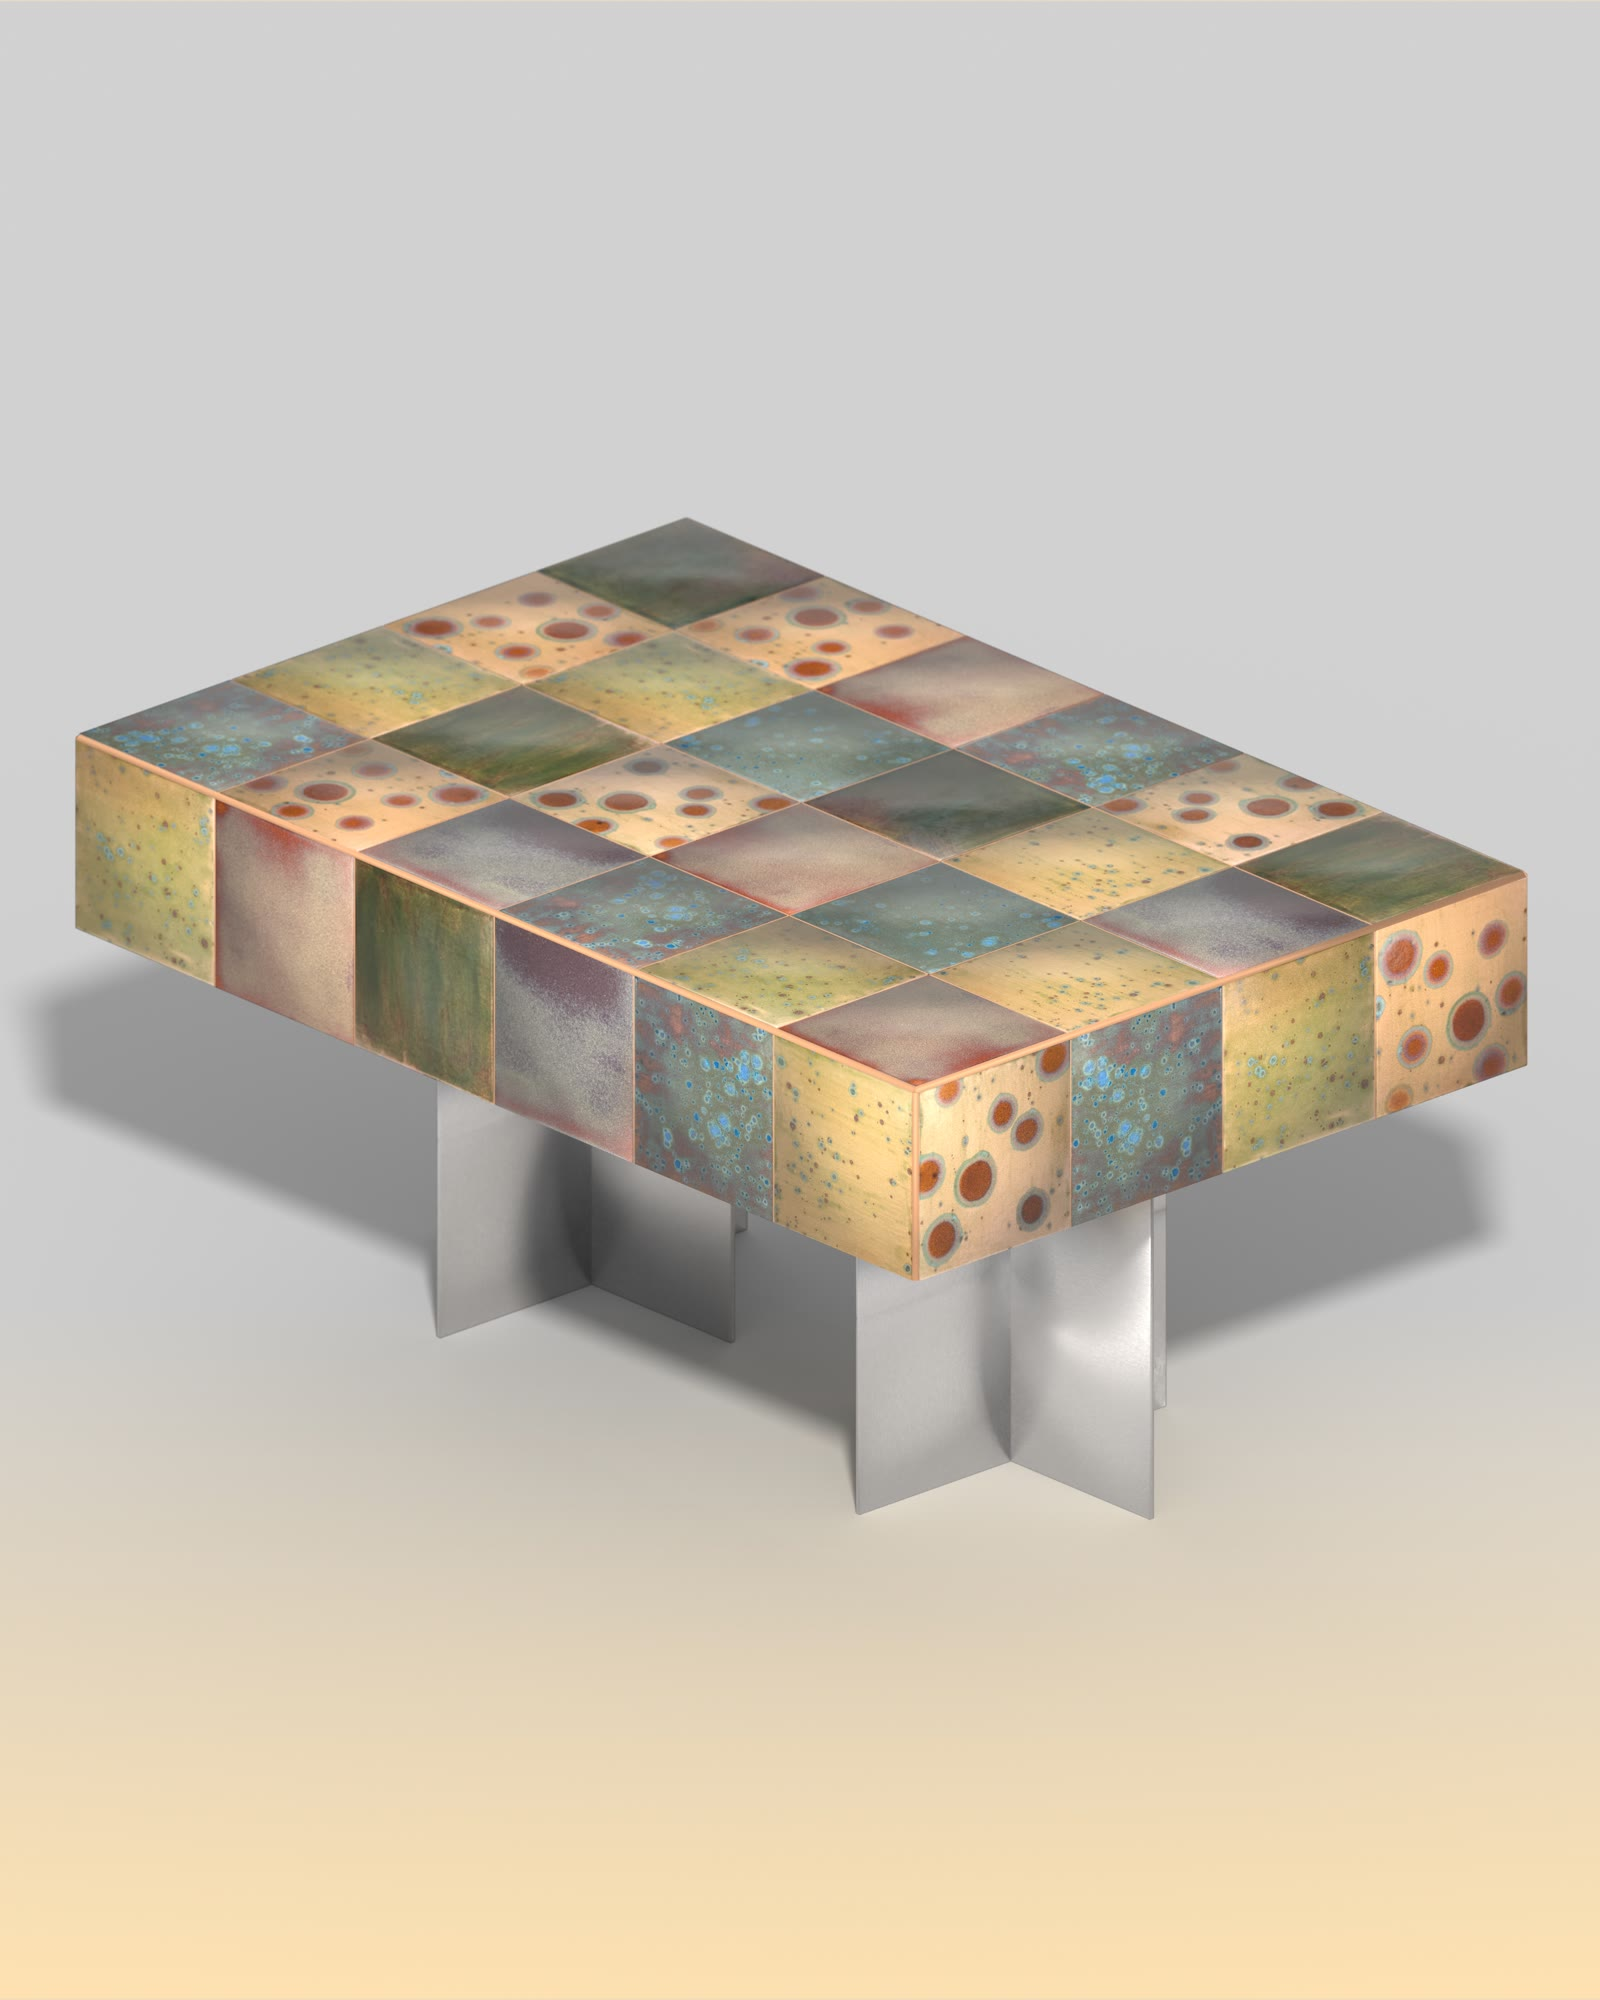
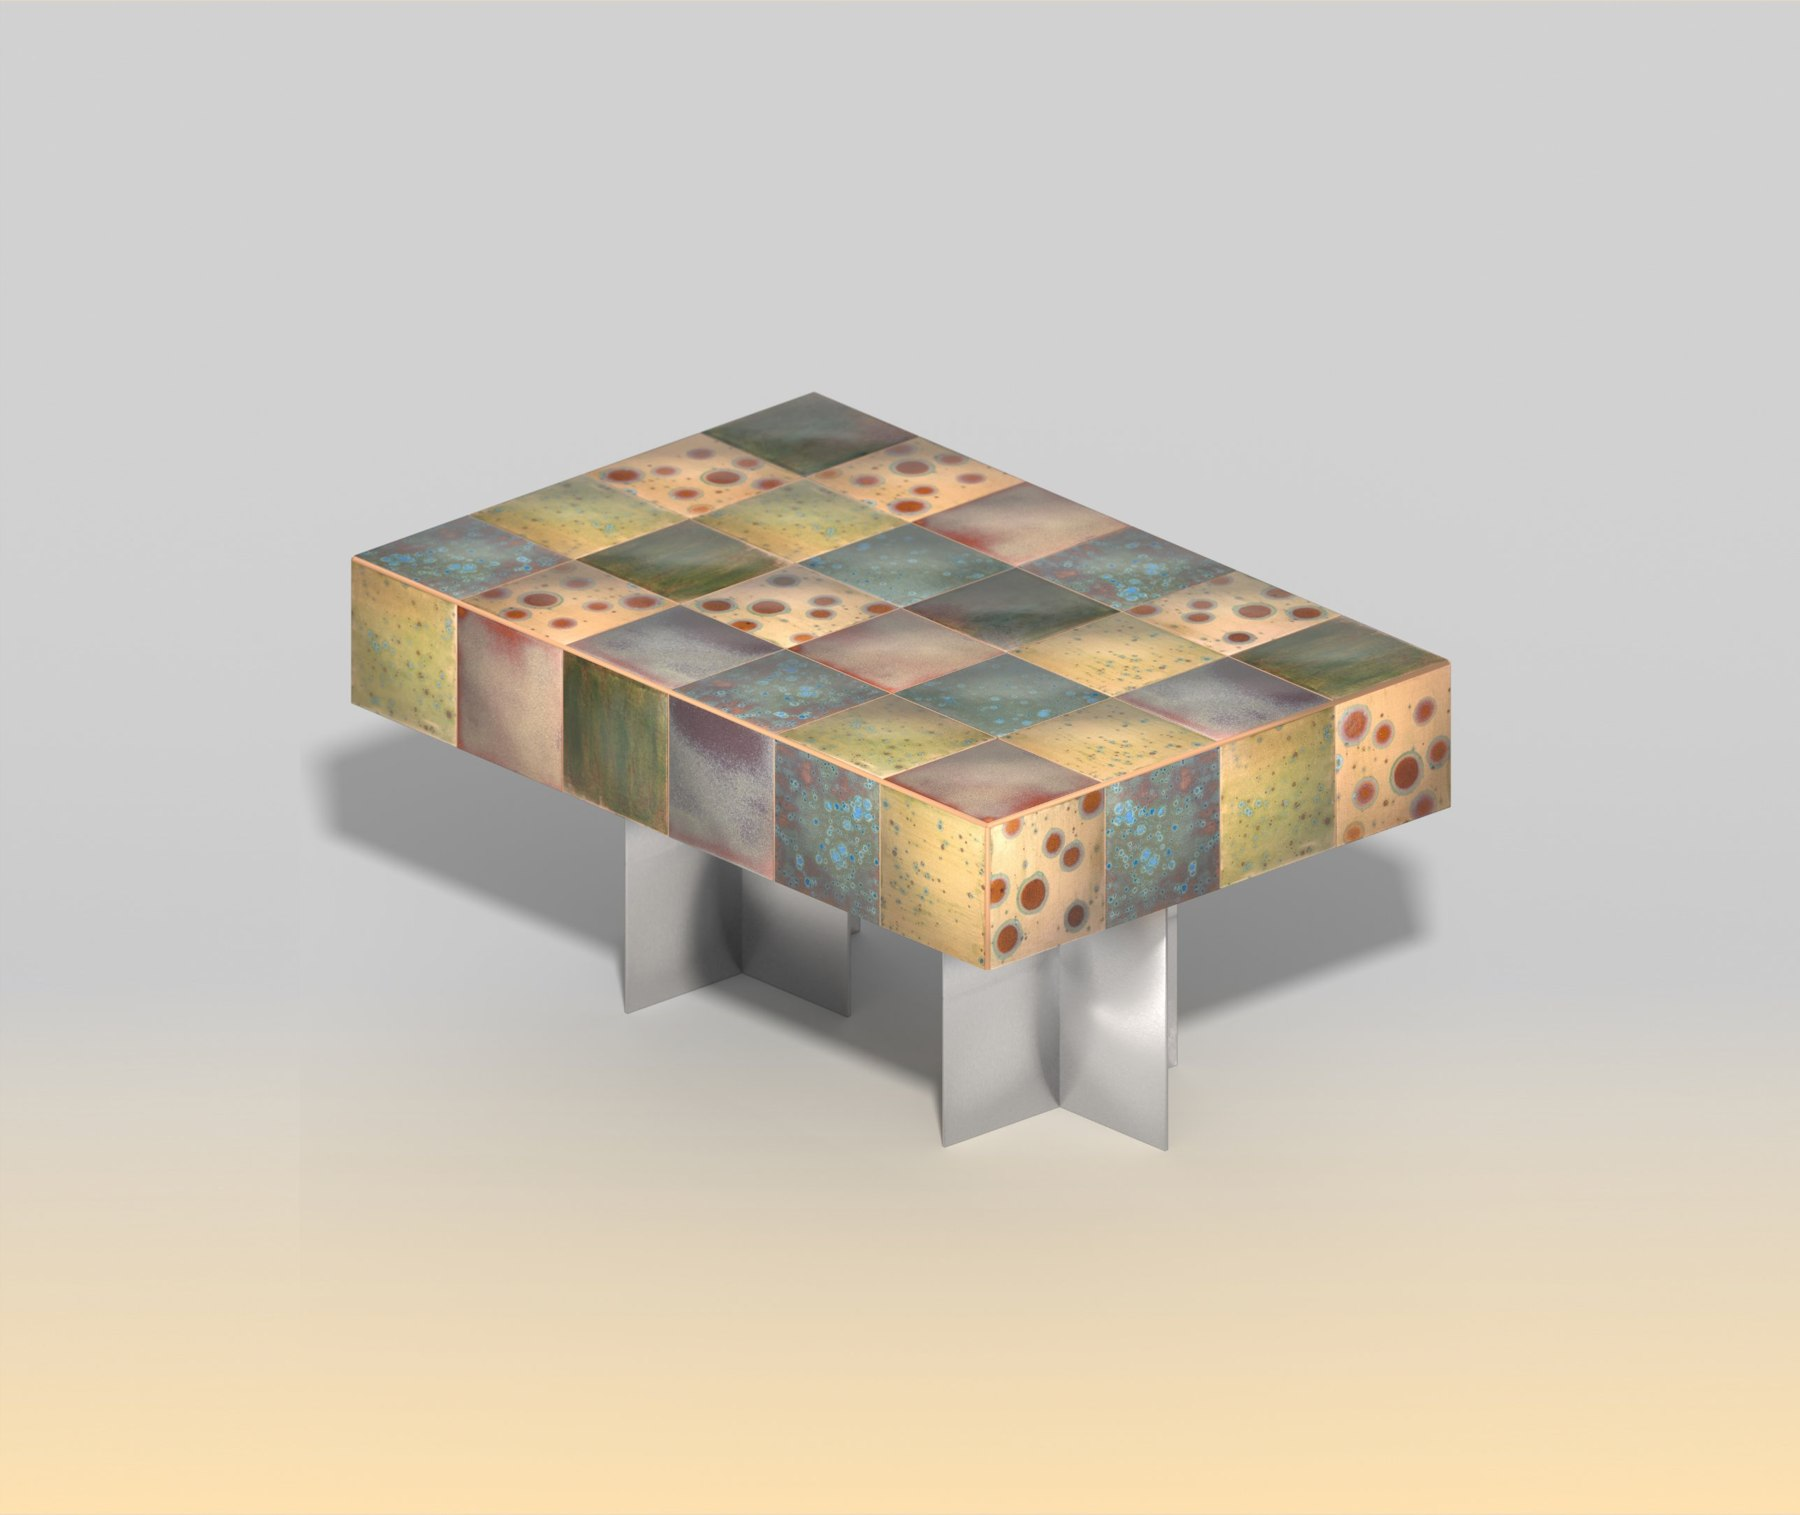
Table : nouvelles images, inox brossé visible, titre après préloader, reprise caméra douce
- Remplace cover.jpg, dessus.jpg et tranche-detail.jpg par les nouveaux
  rendus fournis (cache-bust ?v=2).
- Inox des pieds : la texture sert aussi de carte de rugosité -> les stries
  du brossage deviennent nettement visibles (plus de simple miroir).
- Titre de bannière : son animation d'arrivée est différée jusqu'à la fin du
  préloader, pour qu'elle démarre quand le voile se lève et non derrière lui
  (toutes les pages projet, main.js v=70).
- Reprise de la caméra 3D plus douce : retour au cadrage plus lent et montée
  progressive de la vitesse de rotation automatique (repart de 0).

Claude-Session: https://claude.ai/code/session_01H5iVRNpBVL8bQ4YUxpHi1P

Changed region(s): [[0.0, 0.2482, 0.9688, 0.7756]]

diff --git a/assets/js/table3d.js b/assets/js/table3d.js
@@ -18,6 +18,7 @@ import { RoomEnvironment } from 'three/addons/environments/RoomEnvironment.js';
 
   var inited = false, running = false, renderer, scene, camera, controls, raf = null;
   var sun = null, t0 = 0;
+  var AUTO_SPEED = 0.9; // vitesse de croisiere de la rotation automatique
   // Cadrage par defaut, pour la reprise automatique apres interaction
   var homePos = new THREE.Vector3(), homeTarget = new THREE.Vector3();
   var idleTimer = null, resetting = false, resetFrom = new THREE.Vector3(), resetFromT = new THREE.Vector3(), resetK = 0;
@@ -61,7 +62,7 @@ import { RoomEnvironment } from 'three/addons/environments/RoomEnvironment.js';
 
     controls = new OrbitControls(camera, canvas);
     controls.enableDamping = true; controls.dampingFactor = 0.08;
-    controls.autoRotate = true; controls.autoRotateSpeed = 0.9;
+    controls.autoRotate = true; controls.autoRotateSpeed = AUTO_SPEED;
     controls.enablePan = false;
     controls.enableZoom = false; // la molette fait defiler la page, pas zoomer
     // Interaction : on stoppe la rotation auto et on masque l'indice pendant qu'on manipule.
@@ -93,12 +94,15 @@ import { RoomEnvironment } from 'three/addons/environments/RoomEnvironment.js';
         mats.forEach(function (m, i) {
           if (!m) return;
           if (/inox/i.test(m.name)) {
-            // Inox brosse : texture metal satinee fournie + reflets etires (anisotropie).
+            // Inox brosse : la texture sert a la fois de couleur ET de carte de
+            // rugosite -> les fines stries du brossage modulent les reflets et
+            // deviennent nettement visibles. Anisotropie pour etirer les highlights.
             var pm = new THREE.MeshPhysicalMaterial({
               map: inoxTex,
-              metalness: 1.0, roughness: 0.5,
-              anisotropy: 0.9, anisotropyRotation: Math.PI / 2,
-              envMapIntensity: 1.1
+              roughnessMap: inoxTex,
+              metalness: 1.0, roughness: 0.62,
+              anisotropy: 0.95, anisotropyRotation: Math.PI / 2,
+              envMapIntensity: 1.15
             });
             if (Array.isArray(o.material)) o.material[i] = pm; else o.material = pm;
           } else if (/bois/i.test(m.name) || /^bois/i.test(o.name)) {
@@ -156,15 +160,21 @@ import { RoomEnvironment } from 'three/addons/environments/RoomEnvironment.js';
       sun.position.set(Math.cos(t) * 7.5, 4.2 + Math.sin(t) * 3.2, Math.sin(t * 0.8) * 6.5);
     }
     if (resetting) {
-      // Retour progressif au cadrage par defaut, puis reprise de la rotation auto.
-      resetK = Math.min(1, resetK + 0.022);
+      // Retour tres progressif au cadrage par defaut, puis reprise de la rotation
+      // automatique en douceur (voir la montee de vitesse plus bas).
+      resetK = Math.min(1, resetK + 0.009);
       var e = 1 - Math.pow(1 - resetK, 3); // easeOutCubic
       camera.position.lerpVectors(resetFrom, homePos, e);
       controls.target.lerpVectors(resetFromT, homeTarget, e);
       if (resetK >= 1) {
-        resetting = false; controls.autoRotate = true;
+        resetting = false;
+        controls.autoRotate = true; controls.autoRotateSpeed = 0; // repart de 0 -> montee douce
         if (hint) hint.style.opacity = '';
       }
+    }
+    // Montee en douceur de la vitesse de rotation auto (apres une reprise).
+    if (controls.autoRotate && controls.autoRotateSpeed < AUTO_SPEED) {
+      controls.autoRotateSpeed = Math.min(AUTO_SPEED, controls.autoRotateSpeed + 0.008);
     }
     controls.update();
     renderer.render(scene, camera);

diff --git a/table-basse-mp01.html b/table-basse-mp01.html
@@ -34,7 +34,7 @@
 
 <main>
   <section class="project-banner">
-    <div class="pb-media"><img src="assets/img/table-mp01/cover.jpg" alt="Table basse MP-01"></div>
+    <div class="pb-media"><img src="assets/img/table-mp01/cover.jpg?v=2" alt="Table basse MP-01"></div>
     <div class="pb-grad"></div>
     <div class="pb-inner wrap"><h1 class="pb-title">Table basse MP-01</h1></div>
   </section>
@@ -52,12 +52,12 @@
 
   <section class="wrap">
     <div class="project-media reveal">
-      <img src="assets/img/table-mp01/dessus.jpg" alt="Vue d'ensemble du plateau en damier" loading="lazy">
+      <img src="assets/img/table-mp01/dessus.jpg?v=2" alt="Vue d'ensemble du plateau en damier" loading="lazy">
       <img src="assets/img/table-mp01/biais.jpg" alt="Vue rapprochée en biais des carreaux patinés" loading="lazy">
     </div>
 
     <div class="project-media reveal">
-      <img src="assets/img/table-mp01/tranche-detail.jpg" alt="Détail de la tranche et du piètement en inox" loading="lazy">
+      <img src="assets/img/table-mp01/tranche-detail.jpg?v=2" alt="Détail de la tranche et du piètement en inox" loading="lazy">
       <img src="assets/img/table-mp01/tranche-gros-plan.jpg" alt="Gros plan sur les patines de la tranche" loading="lazy">
     </div>
 
@@ -94,7 +94,7 @@
 <script>document.getElementById('year').textContent = new Date().getFullYear();</script>
 <script src="assets/js/vendor/lenis.min.js"></script>
 <script src="assets/js/vendor/curtains.umd.min.js"></script>
-<script src="assets/js/main.js?v=69"></script>
-<script type="module" src="assets/js/table3d.js?v=4"></script>
+<script src="assets/js/main.js?v=70"></script>
+<script type="module" src="assets/js/table3d.js?v=5"></script>
 </body>
 </html>

diff --git a/assets/js/main.js b/assets/js/main.js
@@ -324,7 +324,23 @@ document.addEventListener('DOMContentLoaded', function () {
           else e.target.classList.remove('rw-go');
         });
       }, { threshold: 0, rootMargin: '0px 0px -8% 0px' });
-      pbTitles.forEach(function (t) { pbIO.observe(t); });
+      // Le titre est en bas d'une banniere visible des le chargement : si on
+      // l'observe tout de suite, il s'anime DERRIERE le preloader et l'arrivee
+      // est deja finie quand le voile se leve. On attend donc la fin du preloader
+      // pour lancer l'observation -> le titre arrive quand le voile se leve.
+      var startPb = function () {
+        if (startPb._done) return; startPb._done = true;
+        pbTitles.forEach(function (t) { pbIO.observe(t); });
+      };
+      var pre = document.getElementById('preloader');
+      if (!pre) {
+        startPb();
+      } else {
+        var kick = function () { setTimeout(startPb, 420); }; // ~ instant ou le voile se leve
+        if (document.readyState === 'complete') kick();
+        else window.addEventListener('load', kick);
+        setTimeout(startPb, 6600); // filet de securite (preloader plafonne a 6 s)
+      }
     }
 
     // -- Texte projet : revele par bloc (paragraphe par paragraphe), rejouable --

diff --git a/index.html b/index.html
@@ -132,7 +132,7 @@
 <script>document.getElementById('year').textContent = new Date().getFullYear();</script>
 <script src="assets/js/vendor/lenis.min.js"></script>
 <script src="assets/js/vendor/curtains.umd.min.js"></script>
-<script src="assets/js/main.js?v=69"></script>
+<script src="assets/js/main.js?v=70"></script>
 <script src="assets/js/hero-text.js?v=22"></script>
 </body>
 </html>

diff --git a/human-record.html b/human-record.html
@@ -98,6 +98,6 @@
 <script>document.getElementById('year').textContent = new Date().getFullYear();</script>
 <script src="assets/js/vendor/lenis.min.js"></script>
 <script src="assets/js/vendor/curtains.umd.min.js"></script>
-<script src="assets/js/main.js?v=69"></script>
+<script src="assets/js/main.js?v=70"></script>
 </body>
 </html>

diff --git a/interstellar.html b/interstellar.html
@@ -82,6 +82,6 @@
 <script>document.getElementById('year').textContent = new Date().getFullYear();</script>
 <script src="assets/js/vendor/lenis.min.js"></script>
 <script src="assets/js/vendor/curtains.umd.min.js"></script>
-<script src="assets/js/main.js?v=69"></script>
+<script src="assets/js/main.js?v=70"></script>
 </body>
 </html>

diff --git a/make-it-bigger.html b/make-it-bigger.html
@@ -83,6 +83,6 @@
 <script>document.getElementById('year').textContent = new Date().getFullYear();</script>
 <script src="assets/js/vendor/lenis.min.js"></script>
 <script src="assets/js/vendor/curtains.umd.min.js"></script>
-<script src="assets/js/main.js?v=69"></script>
+<script src="assets/js/main.js?v=70"></script>
 </body>
 </html>

diff --git a/meta-tinder.html b/meta-tinder.html
@@ -82,6 +82,6 @@
 <script>document.getElementById('year').textContent = new Date().getFullYear();</script>
 <script src="assets/js/vendor/lenis.min.js"></script>
 <script src="assets/js/vendor/curtains.umd.min.js"></script>
-<script src="assets/js/main.js?v=69"></script>
+<script src="assets/js/main.js?v=70"></script>
 </body>
 </html>
